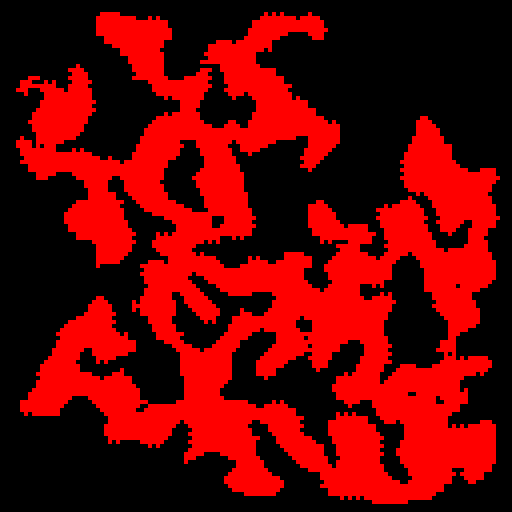
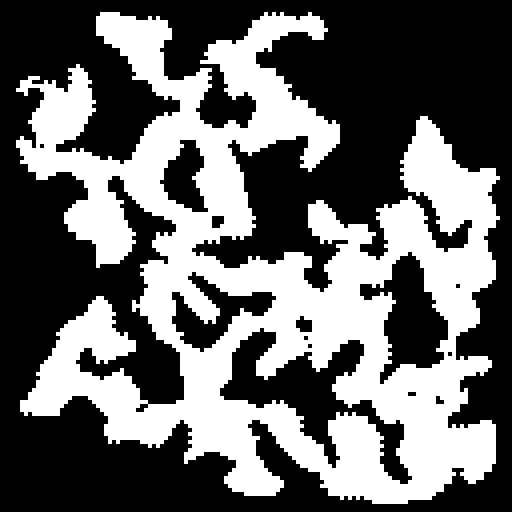
Small tweaks

diff --git a/content/post/tiledriver-part-1.md b/content/post/tiledriver-part-1.md
@@ -93,16 +93,16 @@ Lets see what happens after a few generations of this!
 
 Now we're getting somewhere!
 
-As you can see, further generations end up smoothing out the roughness and forming a blobs of playable space.  Remember that three-tile border?  Without it, the empty area "grabs" the edges.  This doesn't work real well for our purpose since we want and enclosed area.
+As you can see, further generations end up smoothing out the roughness and forming a blobs of playable space.  Remember that three-tile border?  Without it, the empty area "grabs" the edges.  This doesn't work real well for our purpose since we want and enclosed area (remember that white is playable space in the below image!).
 
 ![Generation 7](/tiledriver/ca-gen7-no-border.png)
-<center>*7 generations with no starting border*</center>
+<center>*7 generations with no starting border.  Pretty open.*</center>
 
 ### Making a Cave
 
-OK, the last one was pretty good, but what to do about all those unconnected cave spaces?  At first I thought there would be an easy way to connect all of them, but, unfortunately, this is one of those massively hard CS problems, so we'll cheat instead.
+OK, so we've managed to create some cave-y spaces, but what are we going to do about them not being connected?  At first I thought there would be an easy way to connect all of them, but, unfortunately, this is one of those massively hard CS problems, so we'll cheat instead.
 
-First we'll find all the empty areas:
+First we'll find all the empty areas, picking a different color to easily visualize each of them:
 
 ![Colored Empty Spaces](/tiledriver/ca-gen7-playable-spaces.png)
 <center>*All of the empty spaces*</center>
@@ -112,9 +112,9 @@ Next, we'll just... delete all but the largest one:
 ![Largest Remaining Cave](/tiledriver/ca-gen7-only-largest-room.png)
 <center>*Hey, it's a cave!*</center>
 
-Now, there's a lot of trial and error in the above.  The percentage of live vs dead cells in the initial board, the number of generations, and that size of the board all play a large role.  We first used a standard Wolf 3D map size of 64x64, but quickly discovered it was too cramped to make interesting structures (as it turns out, a map tile in Wolf 3D is fairly coarse).
+Now, there's a lot of trial and error in the above.  The percentage of live vs dead cells in the initial board, the number of generations, the border thickness, and the size of the board all play a large role.  We first used a standard Wolf 3D map size of 64x64, but quickly discovered it was too cramped to make interesting structures (as it turns out, a map tile in Wolf 3D is fairly coarse).
 
-But after adding a random player start and using some rock textures, he have a cave!
+But after adding a random player start and using some rock textures, we have a cave!
 
 ![Boring Cave](/tiledriver/ca-boring-cave.png)
 <center>*An incredibly exhilarating cave*</center>
